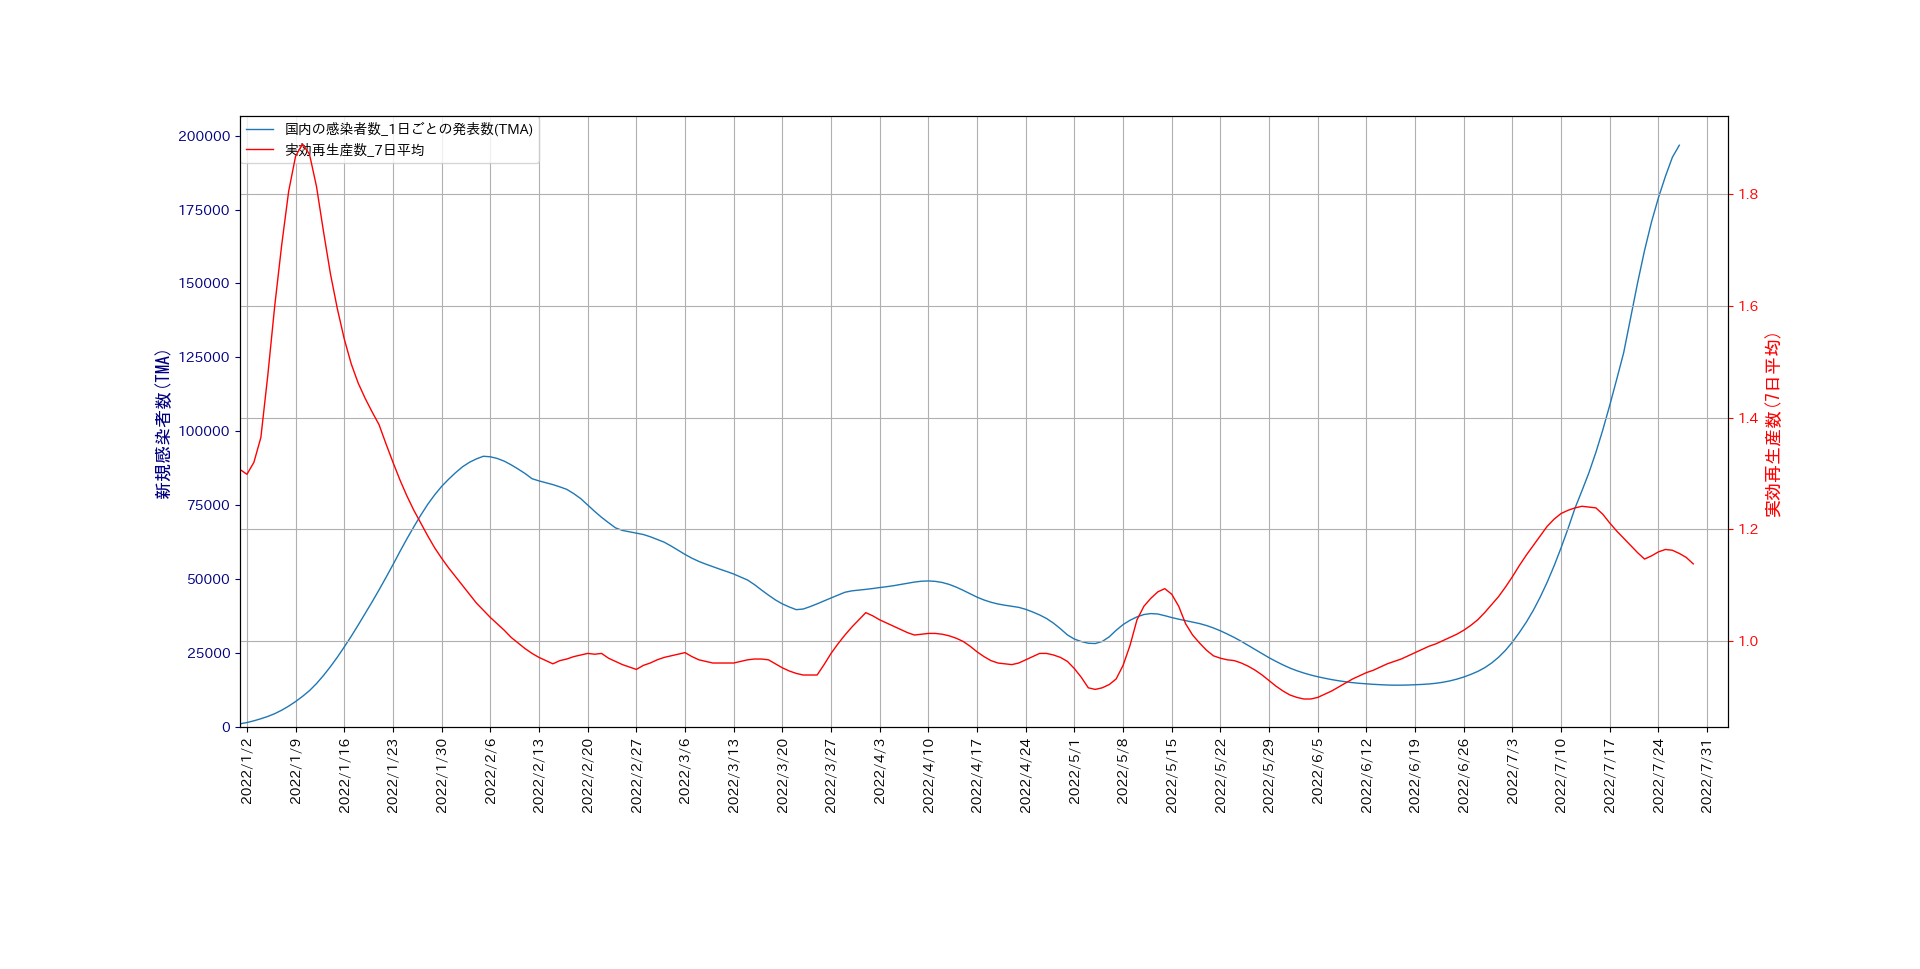
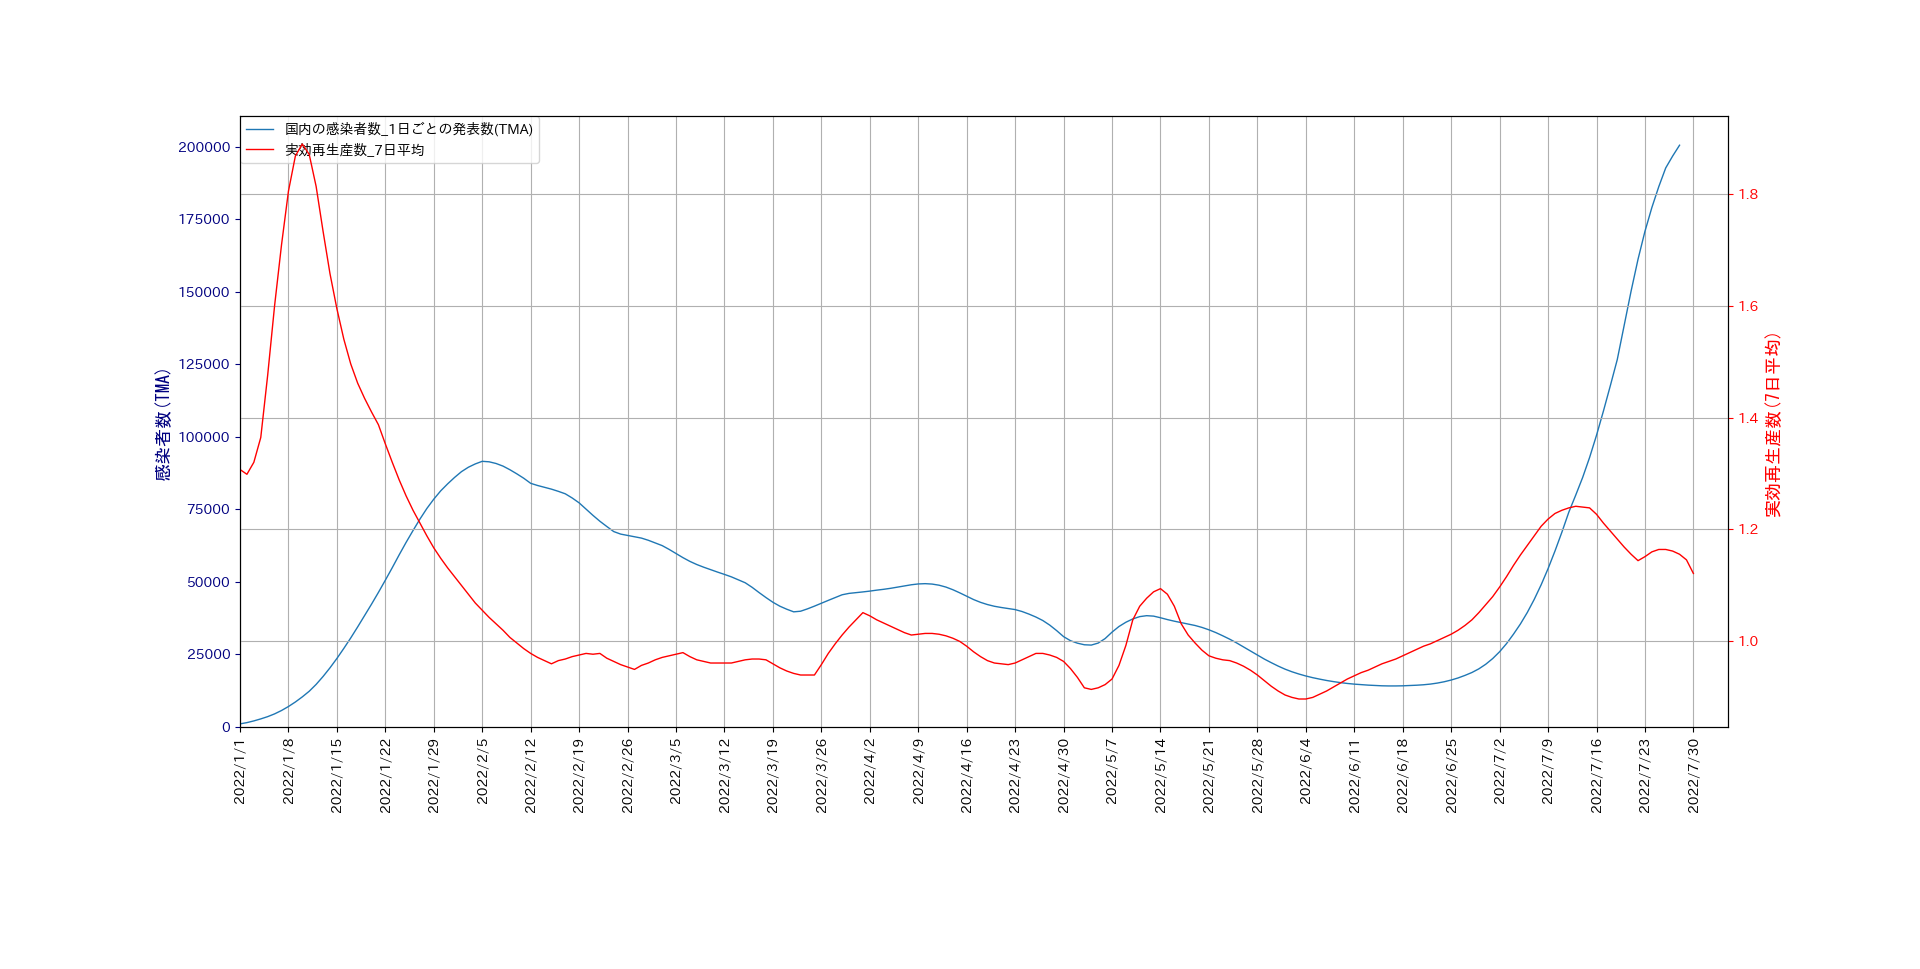
change

diff --git a/Miscellaneous/DataVis/Vis8/DataVis8.html b/Miscellaneous/DataVis/Vis8/DataVis8.html
@@ -86,9 +86,9 @@ code {
 <BR>
 <div class="parent">
  <div class="child2">
-　2022年7月よりcovid-19の第7波が始まりました。2022年1月に始まった第6波以降の新規感染者
+　2022年7月よりcovid-19の第7波が始まりました。2022年1月に始まった第6波以降の１日ごとの感染者
 の推移と共に実効再生産数をグラフで表すと以下のようになります。
-今までと同様に、新規感染者数については、NHKの
+今までと同様に、１日ごとの規感染者数については、NHKの
   <a href="https://www3.nhk.or.jp/news/special/coronavirus/data-all/">
   NHK特設サイト 新型コロナウイルス</a>
 から、データをダウンロードして使用します。
@@ -99,7 +99,7 @@ code {
 から、日別全国の実効再生産数(effective_reproduction_number.csv)をダウンロードします。
 ダウンロードしたデータはメモ帳で開いてエンコードをANSIにして保存し直します。
 <br>
-　2022年1月に始まった第6波以降の新規感染者
+　2022年1月に始まった第6波以降の１日ごとの感染者数
 の推移と共に実効再生産数をグラフで表すと以下のようになります。
 
  </div>
@@ -130,7 +130,7 @@ code {
 　ここでは、第6波から第7波において、表題の関係が成り立っているかを調べます。
 <br>
 　上の図では、曜日による変動など、細かな変動のために全体の傾向がつかみにくくなっています。
-そこで、新規感染者数については、7日間の移動平均を2回行うことにします。これは、加重移動平均
+そこで、日ごとの感染者数については、7日間の移動平均を2回行うことにします。これは、加重移動平均
 (三角移動平均 Triangular Moving Average (TMA))に相当します。また、対応する実効再生産数の
 細かな変動も、7日間移動平均を取ることにより、平滑化することにします。すなわち、我々が解析
 するモデルは、次の図で与えられます。
